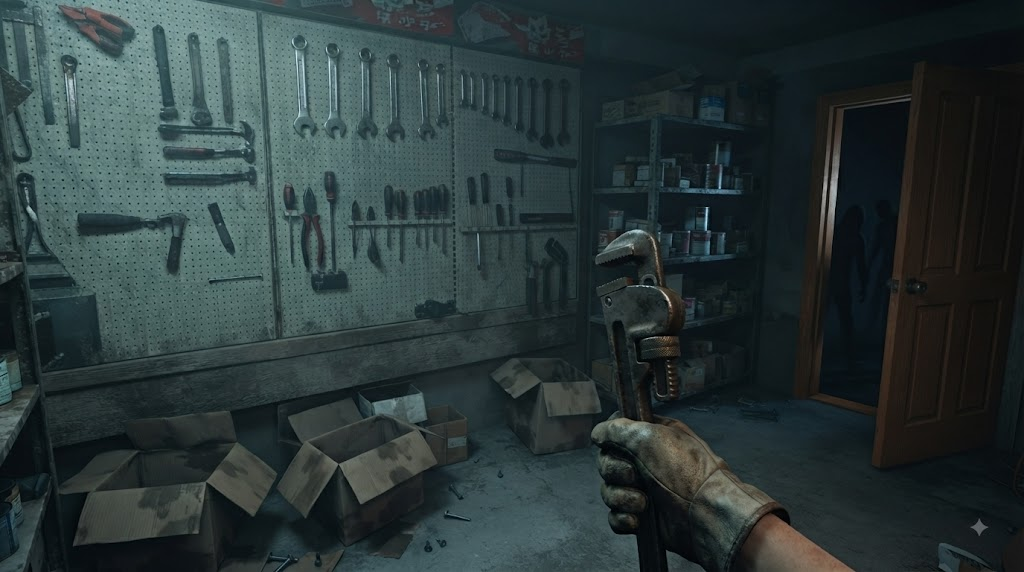
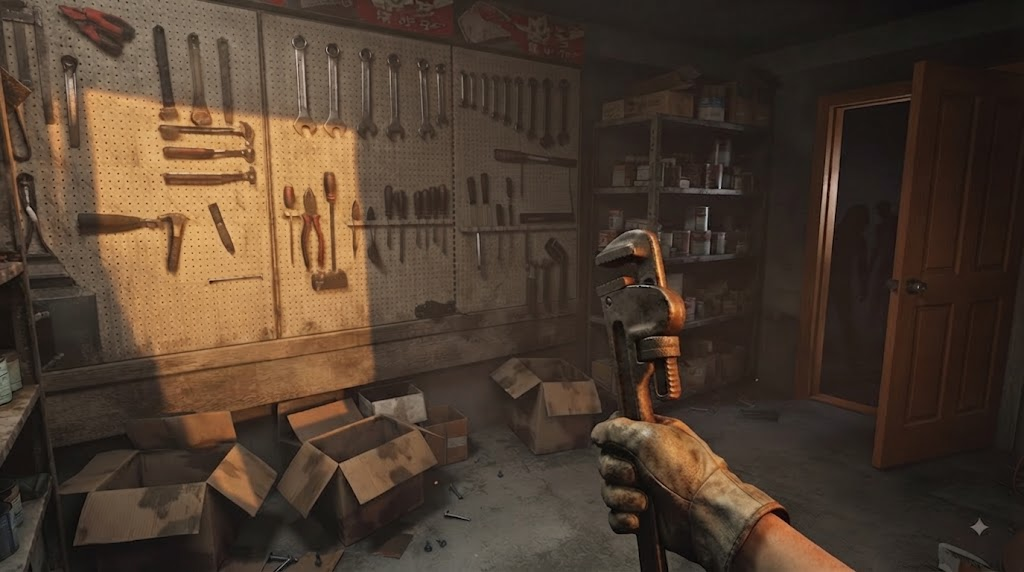
auto: 2026-08-14 11:00

diff --git a/story/五金店.js b/story/五金店.js
@@ -147,7 +147,10 @@ Object.assign(storyData, {
   },
 
   "五金店-侧窗-探索": {
-    image: "images/小区周边/五金店/工具区.jpg",
+    image: timeImage({
+      morning: "images/小区周边/五金店/工具区.jpg",
+      night: "images/小区周边/五金店/工具区-night.jpg"
+    }),
     onEnter: updateTime(2), // 花2分钟审视墙上工具
     text: "你环顾工具区。墙上挂着一排扳手和螺丝刀，上面沾着机油和灰，但没生锈——五金店的东西保养得还行。你挑了一把趁手的扳手——虽然不是什么神兵利器，但总比空手强。\n\
 你正打算再翻翻看有什么有用的，突然听到工具区门外传来声音——嘎吱，嘎吱——像是什么东西在拖沓地走动。就在门的那一侧。",
@@ -165,7 +168,10 @@ Object.assign(storyData, {
 
   "五金店-货架躲藏": {
     image: "images/placeholder.png" /* TODO: images/小区周边/hardwareStoreInside.png */,
-    text: "你蹲下来，缩进两排货架之间的缝隙里。透过货架上的空隙，你看向工具区门的方向。\n门没有被推开。但你注意到脚边的地板上正在渗出一种淡白色的气体——它从地板缝里一丝一丝地冒出来，像干冰一样贴着地面蔓延。\n你捂住口鼻，但太晚了。你已经吸了一口。你的喉咙开始收缩，视野边缘开始模糊。你想站起来，但腿已经完全不听使唤了。\n你倒下的时候碰倒了一排货架，扳手和螺丝刀哗啦啦地砸在你身上。你听到工具区门被推开了，然后是脚步声——是走路的脚步声，不紧不慢地朝你走来。",
+    text: "你蹲下来，缩进两排货架之间的缝隙里。透过货架上的空隙，你看向工具区门的方向。\n\
+门没有被推开。但你注意到脚边的地板上正在渗出一种淡白色的气体——它从地板缝里一丝一丝地冒出来，像干冰一样贴着地面蔓延。\n\
+你捂住口鼻，但太晚了。你已经吸了一口。你的喉咙开始收缩，视野边缘开始模糊。你想站起来，但腿已经完全不听使唤了。\n\
+你倒下的时候碰倒了一排货架，扳手和螺丝刀哗啦啦地砸在你身上。你听到工具区门被推开了，然后是脚步声——是走路的脚步声，不紧不慢地朝你走来。",
     choices: [
       {
         text: "……",
